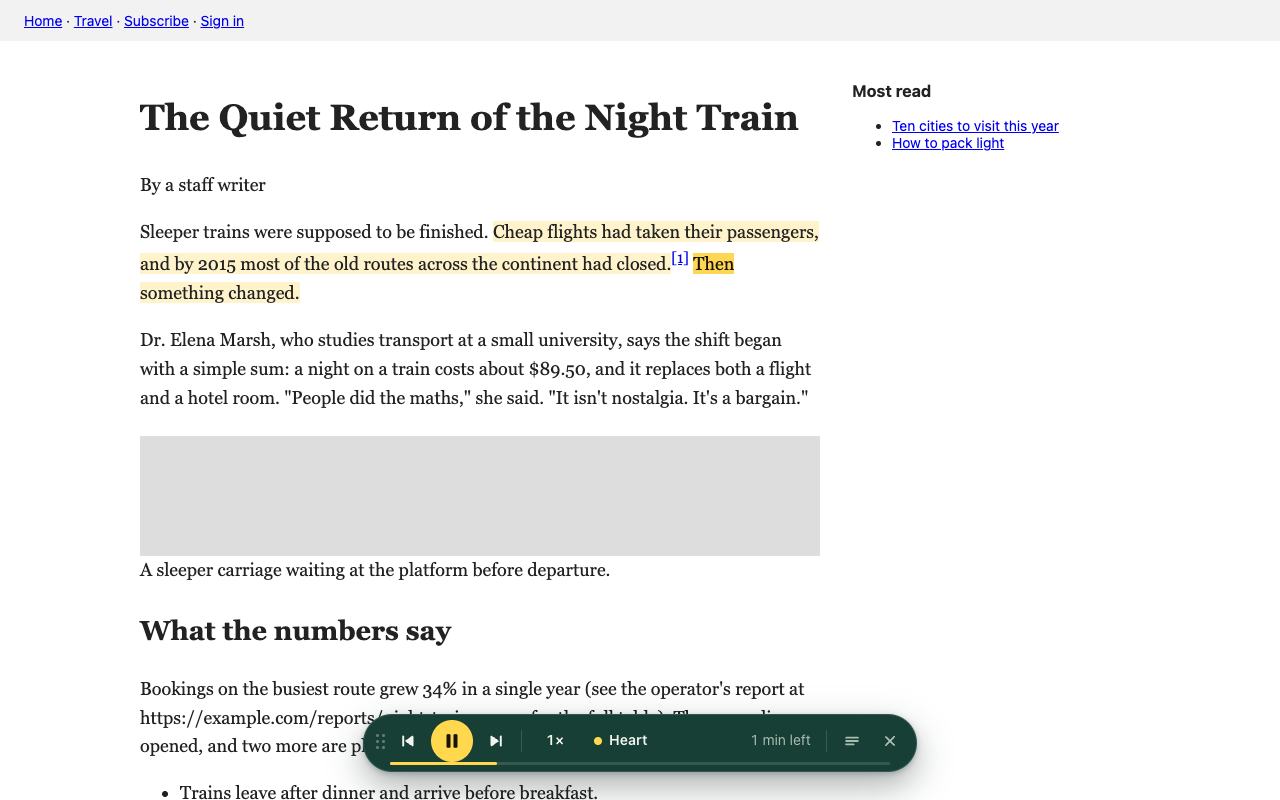
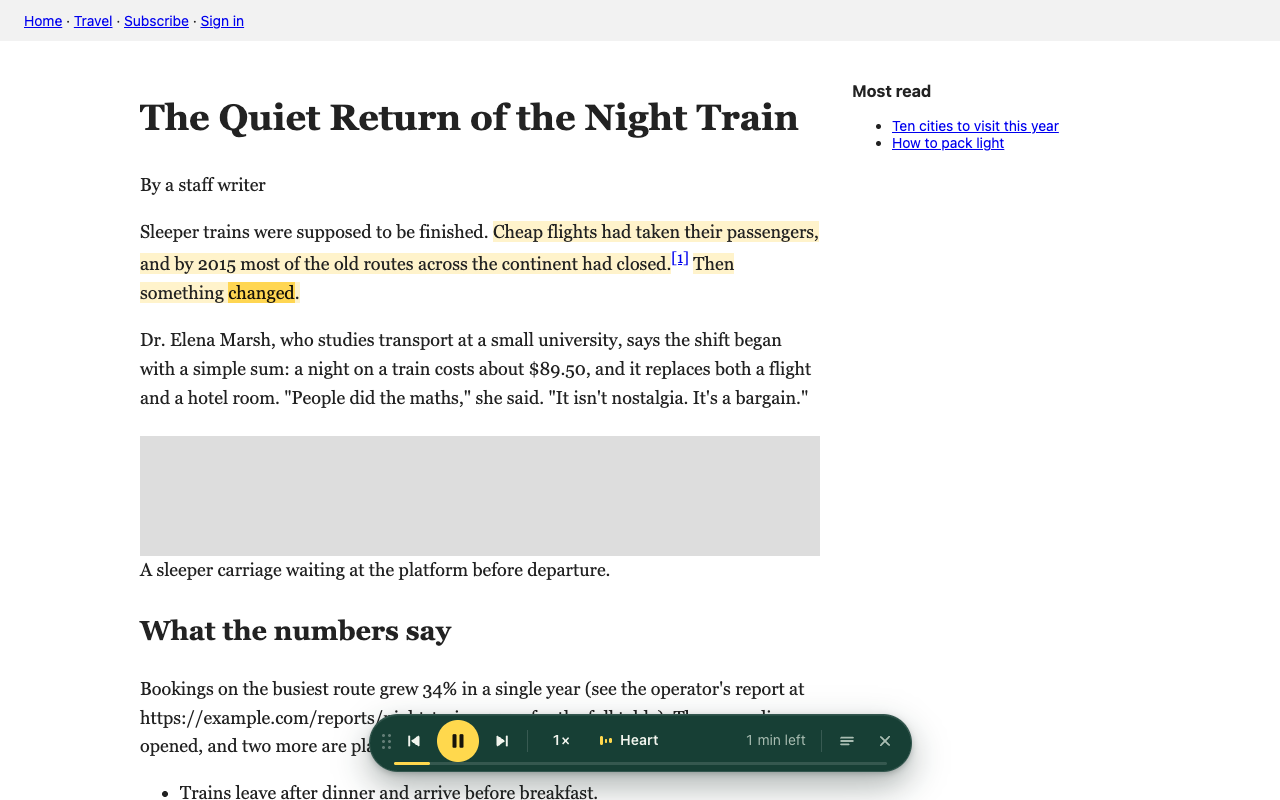
QA round: PDF view, document view, hover intent, old copies, typing
- The PDF drop zone no longer shows over an open PDF; sideways margin text
  is not read.
- Numbered lists keep their numbering in the document view.
- The paragraph button waits for the pointer to rest before appearing.
- Controls left behind by a copy of the script from before an update are hidden.
- Alt shortcuts are left alone while typing; background tabs do no work.
- Voice samples are covered by the tests.

diff --git a/src/content/boot.ts b/src/content/boot.ts
@@ -279,6 +279,8 @@ export async function boot(options: BootOptions = {}): Promise<Booted | null> {
 
   let pointer: { target: EventTarget | null; y: number; own: boolean } | null = null;
   let pointerFrame = 0;
+  let hoverIndex = -1;
+  let hoverTimer = 0;
   document.addEventListener(
     'mousemove',
     (event) => {
@@ -292,14 +294,29 @@ export async function boot(options: BootOptions = {}): Promise<Booted | null> {
         if (!page) return;
         const reading = getPage();
         const index = blockAt(reading, pointer.target as Node, pointer.y);
+        if (index === hoverIndex) return;
+        hoverIndex = index;
+        clearTimeout(hoverTimer);
         if (index < 0) return paragraphButton.hideSoon();
-        mount();
-        paragraphButton.showAt(index, ...linePosition(reading.blocks[index]));
+        // Only when the pointer rests on a paragraph, so the button does not flicker as it passes over the page.
+        hoverTimer = window.setTimeout(() => {
+          if (retired || hoverIndex !== index || getPage() !== reading) return;
+          mount();
+          paragraphButton.showAt(index, ...linePosition(reading.blocks[index]));
+        }, 160);
       });
     },
     { passive: true },
   );
-  document.addEventListener('scroll', () => paragraphButton.hide(), { capture: true, passive: true });
+  document.addEventListener(
+    'scroll',
+    () => {
+      hoverIndex = -1;
+      clearTimeout(hoverTimer);
+      paragraphButton.hide();
+    },
+    { capture: true, passive: true },
+  );
   document.documentElement.addEventListener('mouseleave', () => paragraphButton.hideSoon());
 
   function linePosition(block: Block): [DOMRect, number] {
@@ -370,6 +387,9 @@ export async function boot(options: BootOptions = {}): Promise<Booted | null> {
     'keydown',
     (event) => {
       if (retired || !reader.isActive || !event.altKey || event.ctrlKey || event.metaKey) return;
+      // While typing, Alt with a key is how many keyboards produce other characters.
+      const typing = event.composedPath()[0];
+      if (typing instanceof HTMLElement && (typing.isContentEditable || /^(INPUT|TEXTAREA|SELECT)$/.test(typing.tagName))) return;
       const handled = (() => {
         switch (event.code) {
           case 'Period':
@@ -399,6 +419,11 @@ export async function boot(options: BootOptions = {}): Promise<Booted | null> {
   let lastUrl = location.href;
   const refresh = () => {
     if (retired) return;
+    // Nobody is looking at a background tab. Catch up when it is shown again.
+    if (document.hidden) {
+      document.addEventListener('visibilitychange', () => scheduleRefresh(300), { once: true });
+      return;
+    }
     if (location.href !== lastUrl) {
       // A single-page app moved to another article.
       lastUrl = location.href;

diff --git a/src/pdf/index.ts b/src/pdf/index.ts
@@ -88,6 +88,8 @@ async function load(data: ArrayBuffer, name: string): Promise<void> {
       const node = spans[i]?.firstChild;
       if (!node || node.nodeType !== Node.TEXT_NODE || !spans[i].isConnected) return;
       const size = Math.hypot(item.transform[2], item.transform[3]) || item.height;
+      // Text printed sideways is a margin stamp or a figure label, not part of the reading.
+      if (Math.abs(item.transform[1]) > Math.abs(item.transform[0])) return;
       pieces.push({ node: node as Text, text: item.str, x: item.transform[4], y: item.transform[5], width: item.width, size });
       if (item.str.trim()) for (let k = 0; k < item.str.length; k += 40) sizes.push(size);
     });

diff --git a/src/content/index.ts b/src/content/index.ts
@@ -44,7 +44,9 @@ async function handOff(open: () => Promise<void>): Promise<void> {
 // hear that and remove themselves.
 const RETIRE = 'lector:retire';
 document.dispatchEvent(new CustomEvent(RETIRE));
-document.querySelectorAll(HOST_TAG).forEach((old) => old.remove());
+// Copies too old to know about retiring put their controls back if they are removed,
+// so what they left behind is hidden in place instead.
+for (const old of Array.from(document.querySelectorAll<HTMLElement>(HOST_TAG))) old.style.setProperty('display', 'none', 'important');
 
 const googleDoc = location.hostname === 'docs.google.com' ? location.pathname.match(/^\/document\/(?:u\/\d+\/)?d\/([^/]+)/) : null;
 

diff --git a/src/document/index.ts b/src/document/index.ts
@@ -44,9 +44,10 @@ function copyClean(source: Node, target: Node): void {
         copy.setAttribute('rel', 'noreferrer noopener');
       }
     }
-    for (const span of ['colspan', 'rowspan']) {
-      const value = element.getAttribute(span);
-      if (value && /^\d{1,3}$/.test(value)) copy.setAttribute(span, value);
+    // Numbers that carry meaning: table spans, and where a numbered list picks up.
+    for (const name of ['colspan', 'rowspan', 'start']) {
+      const value = element.getAttribute(name);
+      if (value && /^\d{1,4}$/.test(value)) copy.setAttribute(name, value);
     }
     copyClean(element, copy);
     target.appendChild(copy);

diff --git a/src/content/ui/styles.ts b/src/content/ui/styles.ts
@@ -162,7 +162,7 @@ svg { display: block; }
 
 .status {
   /* A fixed width, so the buttons do not shift under the pointer when the text changes. */
-  width: 158px;
+  width: 142px;
   padding: 0 8px;
   color: var(--sage);
   font-variant-numeric: tabular-nums;

diff --git a/static/options.css b/static/options.css
@@ -9,6 +9,7 @@
   color-scheme: light;
 }
 * { box-sizing: border-box; }
+[hidden] { display: none !important; }
 body {
   margin: 0;
   background: var(--chalk);

diff --git a/static/reader.css b/static/reader.css
@@ -8,6 +8,7 @@
   color-scheme: light;
 }
 * { box-sizing: border-box; }
+[hidden] { display: none !important; }
 body {
   margin: 0;
   background: var(--chalk);

diff --git a/README.md b/README.md
@@ -22,6 +22,8 @@ limit, and nothing you read leaves the browser.
 - **Floating player.** Play and pause, previous and next sentence, speed from
   0.5× to 4×, fifteen voices with previews, and quick options. Drag it wherever
   you like.
+- **Scrub through the text.** Hover the progress line to see the sentence at
+  that point, click or drag to jump there.
 - **PDFs.** Opens them in its own view, rebuilds paragraphs from the page
   layout, and skips running headers and page numbers.
 - **Google Docs.** Opens the document as a clean page of text and reads that.
@@ -69,8 +71,9 @@ On a Mac, `Alt` is the Option key. The first two can be changed at
 ```
 
 - **Finding the text.** Paragraphs vote for the container they sit in; the
-  container with the most paragraph text is the article. Every character keeps
-  a link back to its place in the page (`src/content/blocks.ts`).
+  container with the most paragraph text is the article. Comment sections do
+  not get a vote unless the page is nothing but discussion. Every character
+  keeps a link back to its place in the page (`src/content/blocks.ts`).
 - **Speaking.** Sentences go to an offscreen document, which runs
   [Kokoro](https://huggingface.co/hexgrad/Kokoro-82M) in a worker and plays the
   result. A few sentences are always prepared ahead (`src/offscreen/`).
@@ -105,8 +108,10 @@ A longer walkthrough with diagrams is in [docs/how-it-works.html](docs/how-it-wo
 ```bash
 npm run watch        # rebuild on change
 npm run typecheck
-npm test             # drives the built extension in Chromium on test pages
-node scripts/try.mjs https://example.com/some-article   # try it on a real page
+npm test             # structure tests, then drives the built extension in Chromium
+node scripts/extract.mjs <url>  # show what would be read on a page, without the voice
+node scripts/try.mjs <url>      # read a real page for a while and report
+node scripts/qa.mjs             # the same over a list of sites
 node scripts/voice-check.mjs    # speak, transcribe back, and measure speed
 ```
 
